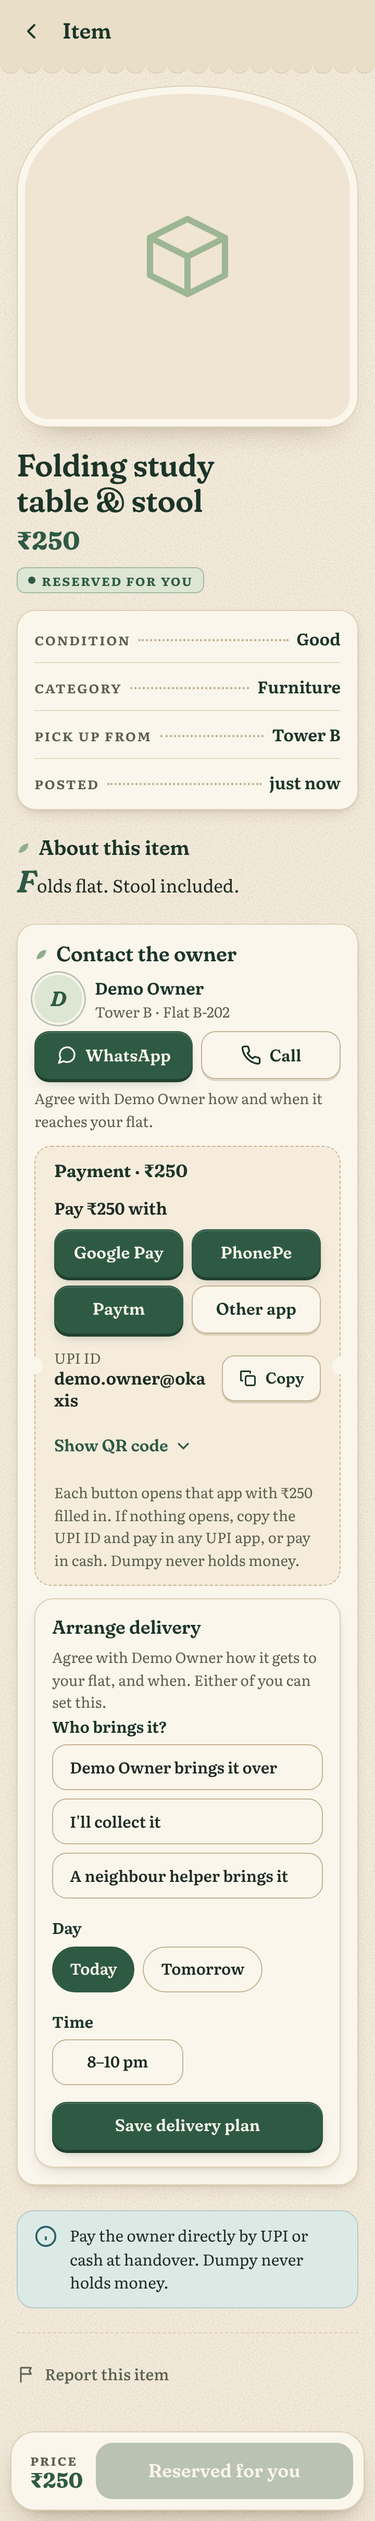
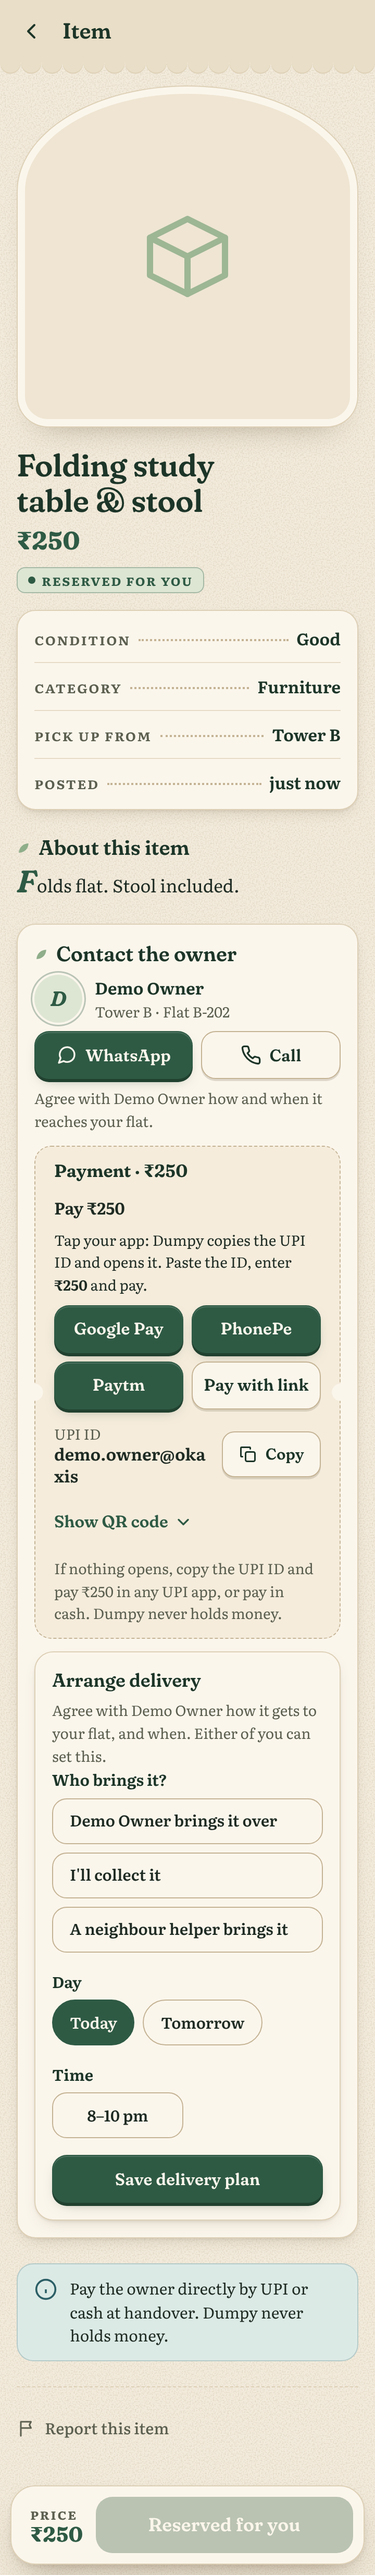
Pay buttons copy the UPI ID and open the app
Google Pay refuses payment links to personal UPI IDs with "bank limit
reached", while paying the same person by hand works. On phones the app
buttons now copy the UPI ID and open Google Pay, PhonePe or Paytm, and
the person pastes the ID and enters the amount. "Pay with link" keeps
the filled-in link for apps and business UPI IDs that accept it.

Claude-Session: https://claude.ai/code/session_01RPdTXMb1PRF175KPwEZfhq

diff --git a/js/pay.js b/js/pay.js
@@ -36,17 +36,24 @@
       "&tn=" + encodeURIComponent(note);
   }
 
-  // Buttons that open a named UPI app. A plain upi:// link lets the phone pick
-  // the app, and on many phones that is WhatsApp (it registers for UPI links
-  // too), so phones get one button per common app:
-  //   Android  an intent link naming the app's package; Chrome opens that app,
-  //            or its Play Store page if it is not installed
-  //   iPhone   the app's own link scheme (iOS has no shared upi:// handler)
-  // Every button carries the same payment details as the plain link.
+  // Paying on a phone. Two things go wrong with a payment link (upi://pay with
+  // the amount filled in):
+  //   * the phone picks which app opens it, and on many phones that is
+  //     WhatsApp, which registers for UPI links too
+  //   * Google Pay treats a link that pays a personal UPI ID as risky and
+  //     refuses it with "bank limit reached", although paying the same person
+  //     by hand works
+  // So on phones each app button copies the UPI ID and opens the app itself.
+  // The person pastes the ID and types the amount, which the app sees as an
+  // ordinary payment. "Pay with link" keeps the filled-in link for apps and
+  // business UPI IDs that accept it.
+  //   Android  an intent naming the app's package (Chrome opens the app, or
+  //            its Play Store page if it is not installed)
+  //   iPhone   the app's own link scheme
   var APPS = [
-    { name: "Google Pay", android: "com.google.android.apps.nbu.paisa.user", ios: "gpay://upi/pay" },
-    { name: "PhonePe", android: "com.phonepe.app", ios: "phonepe://pay" },
-    { name: "Paytm", android: "net.one97.paytm", ios: "paytmmp://upi/pay" }
+    { name: "Google Pay", android: "com.google.android.apps.nbu.paisa.user", ios: "gpay://" },
+    { name: "PhonePe", android: "com.phonepe.app", ios: "phonepe://" },
+    { name: "Paytm", android: "net.one97.paytm", ios: "paytmmp://" }
   ];
   function phoneKind() {
     var ua = navigator.userAgent || "";
@@ -54,23 +61,32 @@
     if (/iPhone|iPad|iPod/i.test(ua) || (/Macintosh/i.test(ua) && navigator.maxTouchPoints > 1)) return "ios";
     return null;
   }
-  function appHref(app, href, kind) {
-    var query = href.slice(href.indexOf("?"));
-    return kind === "android" ? "intent://pay" + query + "#Intent;scheme=upi;package=" + app.android + ";end" : app.ios + query;
+  function openHref(app, kind) {
+    return kind === "android"
+      ? "intent:#Intent;action=android.intent.action.MAIN;category=android.intent.category.LAUNCHER;package=" + app.android + ";end"
+      : app.ios;
+  }
+  function linkParam(href, key) {
+    var m = new RegExp("[?&]" + key + "=([^&]*)").exec(href);
+    return m ? decodeURIComponent(m[1]) : "";
   }
   // The Pay buttons for a upi:// link. label is the button text off phones
-  // (for example "Pay ₹250"); on phones it heads the row of app buttons.
+  // (for example "Pay ₹250"); on phones it heads the app buttons.
   function buttons(href, label) {
     var kind = phoneKind();
     if (!kind) {
       return '<a class="btn btn--primary btn--lg btn--block" href="' + esc(href) + '" data-pay-link>' + esc(label) + "</a>";
     }
+    var upi = linkParam(href, "pa");
+    var amount = rupees(linkParam(href, "am") || 0);
     return '<div class="pay__apps" role="group" aria-label="' + esc(label) + '">' +
-      '<p class="pay__apps-title">' + esc(label) + " with</p>" +
+      '<p class="pay__apps-title">' + esc(label) + "</p>" +
+      '<p class="small pay__apps-how">Tap your app: Dumpy copies the UPI ID and opens it. Paste the ID, enter <strong>' + esc(amount) + "</strong> and pay.</p>" +
       APPS.map(function (a) {
-        return '<a class="btn btn--primary" href="' + esc(appHref(a, href, kind)) + '" data-pay-app="' + esc(a.name) + '">' + esc(a.name) + "</a>";
+        return '<a class="btn btn--primary" href="' + esc(openHref(a, kind)) + '" data-pay-app="' + esc(a.name) + '" data-pay-id="' + esc(upi) + '">' + esc(a.name) + "</a>";
       }).join("") +
-      '<a class="btn btn--outline" href="' + esc(href) + '" data-pay-link>Other app</a></div>';
+      '<a class="btn btn--outline" href="' + esc(href) + '" data-pay-link>Pay with link</a>' +
+      '<p class="small muted pay__apps-status" data-pay-status-line role="status" aria-live="polite"></p></div>';
   }
 
   // A QR code of the link as inline SVG, drawn by the pinned qrcode-generator
@@ -155,7 +171,7 @@
       (qr ? '<details class="pay__qr" data-pay-qr><summary>Show QR code</summary>' +
         '<figure role="img" aria-label="QR code to pay ' + esc(c.display_name) + " " + price + ' by UPI">' + qr + "</figure>" +
         '<p class="small muted">Scan with any UPI app on another phone.</p></details>' : "") +
-      '<p class="small muted">Each button opens that app with ' + price + " filled in. If nothing opens, copy the UPI ID and pay in any UPI app, or pay in cash. Dumpy never holds money.</p>" +
+      '<p class="small muted">If nothing opens, copy the UPI ID and pay ' + price + " in any UPI app, or pay in cash. Dumpy never holds money.</p>" +
       "</div>";
   }
 
@@ -192,6 +208,20 @@
     t.remove();
     if (!ok) throw new Error("copy failed");
   }
+
+  // App buttons: copy the UPI ID first, then open the app.
+  document.addEventListener("click", async function (e) {
+    var a = e.target.closest && e.target.closest("[data-pay-app]");
+    if (!a) return;
+    e.preventDefault();
+    var line = a.parentNode.querySelector("[data-pay-status-line]");
+    var said = "";
+    try { await copy(a.dataset.payId); said = "UPI ID copied. Opening " + a.dataset.payApp + "…"; }
+    catch (err) { said = "Opening " + a.dataset.payApp + ". Copy the UPI ID below if it isn't filled in."; }
+    if (line) line.textContent = said;
+    var go = a.getAttribute("href");
+    setTimeout(function () { window.location.href = go; }, 400);
+  });
 
   document.addEventListener("click", async function (e) {
     var b = e.target.closest && e.target.closest("[data-pay-copy]");

diff --git a/tests/browser/pay.js b/tests/browser/pay.js
@@ -63,23 +63,28 @@ const errors = [];
   // payment to WhatsApp. Android gets intent links naming each app's package.
   const ANDROID = 'Mozilla/5.0 (Linux; Android 14; Pixel 7) AppleWebKit/537.36 (KHTML, like Gecko) Chrome/129.0.0.0 Mobile Safari/537.36';
   const IPHONE = 'Mozilla/5.0 (iPhone; CPU iPhone OS 17_5 like Mac OS X) AppleWebKit/605.1.15 (KHTML, like Gecko) Version/17.5 Mobile/15E148 Safari/604.1';
-  const query = expected.slice(expected.indexOf('?'));
   const ta = await personPage(TAKER, { userAgent: ANDROID });
   await ta.goto(SITE + '/pages/item.html?id=' + TABLE); await settle(ta); await ta.waitForSelector('.pay [data-pay-app]');
-  const apps = await ta.$$eval('.pay [data-pay-app]', (els) => els.map((e) => [e.textContent.trim(), e.getAttribute('href')]));
+  const apps = await ta.$$eval('.pay [data-pay-app]', (els) => els.map((e) => [e.textContent.trim(), e.getAttribute('href'), e.dataset.payId]));
   check(JSON.stringify(apps.map((a) => a[0])) === '["Google Pay","PhonePe","Paytm"]', 'On Android, Pay offers Google Pay, PhonePe and Paytm');
-  check(apps[0][1] === 'intent://pay' + query + '#Intent;scheme=upi;package=com.google.android.apps.nbu.paisa.user;end'
-    && apps[1][1].endsWith(';package=com.phonepe.app;end') && apps[2][1].endsWith(';package=net.one97.paytm;end'),
-    'Each Android button opens that app by its package, with the same payment details\n       ' + apps[0][1]);
-  check((await ta.getAttribute('[data-pay-link]', 'href')) === expected && (await ta.textContent('[data-pay-link]')).trim() === 'Other app',
-    'Other app keeps the plain upi:// link');
+  const launch = 'intent:#Intent;action=android.intent.action.MAIN;category=android.intent.category.LAUNCHER;package=';
+  check(apps[0][1] === launch + 'com.google.android.apps.nbu.paisa.user;end' && apps[1][1] === launch + 'com.phonepe.app;end'
+    && apps[2][1] === launch + 'net.one97.paytm;end' && apps.every((a) => a[2] === UPI),
+    'Each Android button opens that app by its package (no payment link, which Google Pay refuses for personal UPI IDs) and carries the UPI ID to copy');
+  check((await ta.textContent('.pay__apps-how')).includes('enter ₹250'), 'The box says to paste the ID and enter ₹250');
+  check((await ta.getAttribute('[data-pay-link]', 'href')) === expected && (await ta.textContent('[data-pay-link]')).trim() === 'Pay with link',
+    'Pay with link keeps the filled-in upi:// link');
   check(!(await ta.content()).includes('whatsapp://pay'), 'No button hands the payment to WhatsApp');
   await noSideScroll(ta, 'item pay android'); await smallTargets(ta, 'item pay android');
   await shot(ta, 'item-pay-android-light');
+  await ta.evaluate(() => navigator.clipboard.writeText('nothing yet'));
+  await ta.click('.pay [data-pay-app="Google Pay"]');
+  await ta.waitForFunction(() => /UPI ID copied/.test(document.querySelector('[data-pay-status-line]').textContent));
+  check((await ta.evaluate(() => navigator.clipboard.readText())) === UPI, 'Tapping Google Pay copies the UPI ID, then opens the app');
   const ti = await personPage(TAKER, { userAgent: IPHONE });
   await ti.goto(SITE + '/pages/item.html?id=' + TABLE); await settle(ti); await ti.waitForSelector('.pay [data-pay-app]');
   const iapps = await ti.$$eval('.pay [data-pay-app]', (els) => els.map((e) => e.getAttribute('href')));
-  check(iapps[0] === 'gpay://upi/pay' + query && iapps[1] === 'phonepe://pay' + query && iapps[2] === 'paytmmp://upi/pay' + query,
+  check(iapps[0] === 'gpay://' && iapps[1] === 'phonepe://' && iapps[2] === 'paytmmp://',
     'On iPhone each button uses that app\'s own link');
 
   // 2. Copy UPI ID, the fallback for iPhones and phones where the link opens nothing.

diff --git a/tests/browser/fees.js b/tests/browser/fees.js
@@ -176,7 +176,7 @@ const q1 = (query) => sql(query).split('\n').filter(Boolean).pop() || '';
   sql(`select public.mark_delivered('${rid}')`, HELPER.id);
   await td.reload(); await settle(td);
   await td.waitForSelector(`${box} [data-pay-link]`);
-  check((await td.getAttribute(`${box} [data-pay-app="PhonePe"]`, 'href')).startsWith('intent://pay?pa=dumpy.demo@okbank&pn=Dumpy&am=20.00'), 'On Android the fee box offers PhonePe and the other UPI apps');
+  check((await td.getAttribute(`${box} [data-pay-app="PhonePe"]`, 'data-pay-id')) === 'dumpy.demo@okbank' && (await td.textContent(`${box} .pay__apps-how`)).includes('enter ₹20'), 'On Android the fee box offers PhonePe and the other UPI apps, with the ID to copy and ₹20 to enter');
   await shot(td, 'item-fee-due-dark');
   const bd = await personPage(BOSS, 'dark');
   await bd.goto(SITE + '/pages/platform.html'); await settle(bd);

diff --git a/js/delivery.js b/js/delivery.js
@@ -225,7 +225,7 @@
       (qr ? '<details class="pay__qr" data-pay-qr><summary>Show QR code</summary>' +
         '<figure role="img" aria-label="QR code to pay Dumpy ' + price + ' by UPI">' + qr + "</figure>" +
         '<p class="small muted">Scan with any UPI app on another phone.</p></details>' : "") +
-      '<p class="small muted">Put reference <strong translate="no">' + esc(d.fee_ref) + "</strong> in the payment note (the Pay buttons fill it in). Then tap I've paid.</p>" +
+      '<p class="small muted">Add reference <strong translate="no">' + esc(d.fee_ref) + "</strong> as the note when you pay, so Dumpy can match it. Then tap I've paid.</p>" +
       '<button type="button" class="btn btn--outline btn--block" data-dact="feepaid">I\'ve paid</button></div>';
   }
 

diff --git a/css/style.css b/css/style.css
@@ -1426,6 +1426,8 @@ a.row-card__title:hover span { text-decoration: underline; text-underline-offset
 /* One button per UPI app on phones, so Pay never lands in WhatsApp. */
 .pay__apps { display: grid; grid-template-columns: repeat(2, minmax(0, 1fr)); gap: var(--space-2); }
 .pay__apps-title { grid-column: 1 / -1; font-weight: 650; }
+.pay__apps-how, .pay__apps-status { grid-column: 1 / -1; }
+.pay__apps-status:empty { display: none; }
 .pay__apps .btn { min-width: 0; padding-left: var(--space-2); padding-right: var(--space-2); }
 
 /* Dumpy's delivery fee: a note in the delivery form, and totals on Run Dumpy. */
